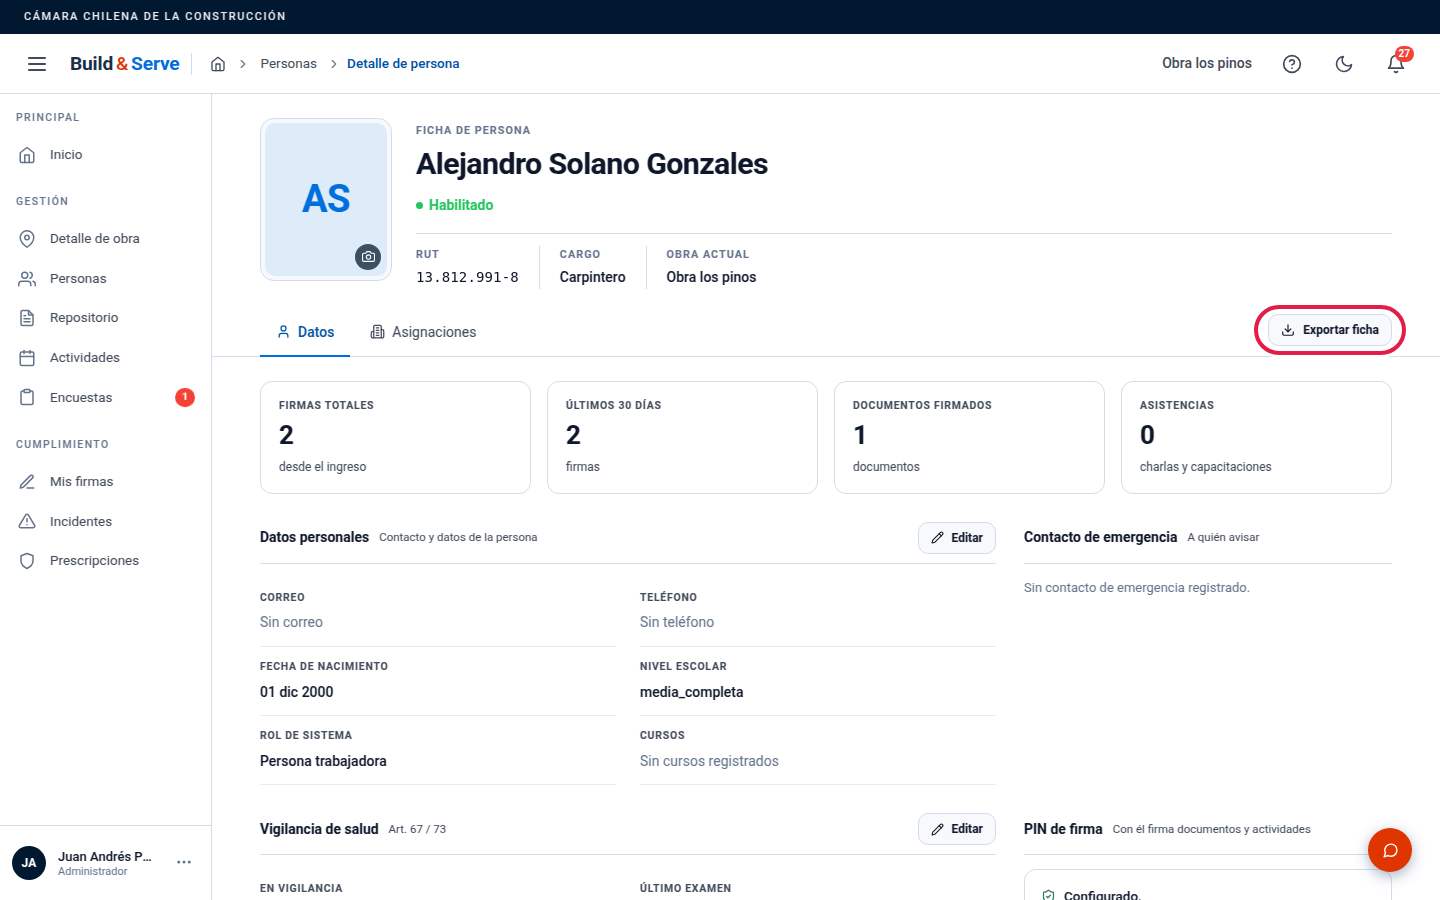
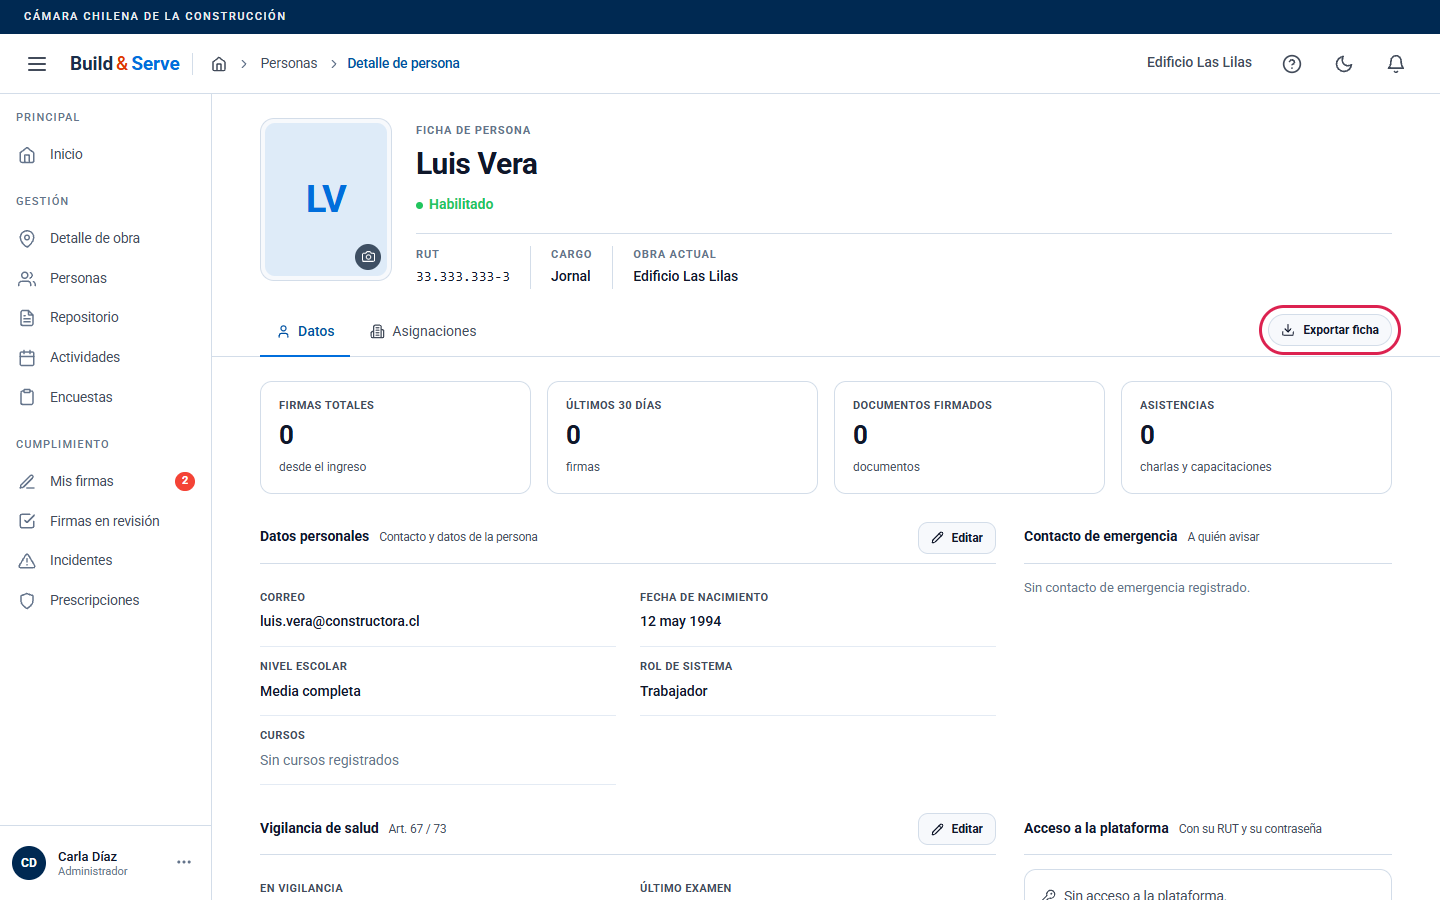
docs(personas): manual y captura de la ficha al dia; se retira el traspaso
La captura de la ficha pasa a generarse con datos simulados.

diff --git a/Frontend/src/manual/content/empresa/personas.md b/Frontend/src/manual/content/empresa/personas.md
@@ -89,9 +89,11 @@ pestañas:
 Arriba están **Editar** y **Exportar ficha**.
 
 En el onboarding, quien puede actualizarlo ve **Subir** o **Reemplazar** junto a los documentos
-que la persona tiene asignados y que nadie ha firmado. Un ítem **Sin documento asignado** no admite
+que la persona tiene asignados. Reemplazar uno que ya tiene firmas pide confirmación: las firmas
+quedan con la versión anterior y hay que firmar de nuevo. Un ítem **Sin documento asignado** no admite
 archivo: los documentos dependen de la obra, el cargo y el rol de la persona. Si un archivo o la
-foto no se pueden guardar, la ficha muestra el motivo.
+foto no se pueden guardar, la ficha muestra el motivo. El avance es el de la obra que estás viendo,
+más los documentos de empresa.
 
 ![Ficha de una persona](/img/personas/ficha.png)
 
